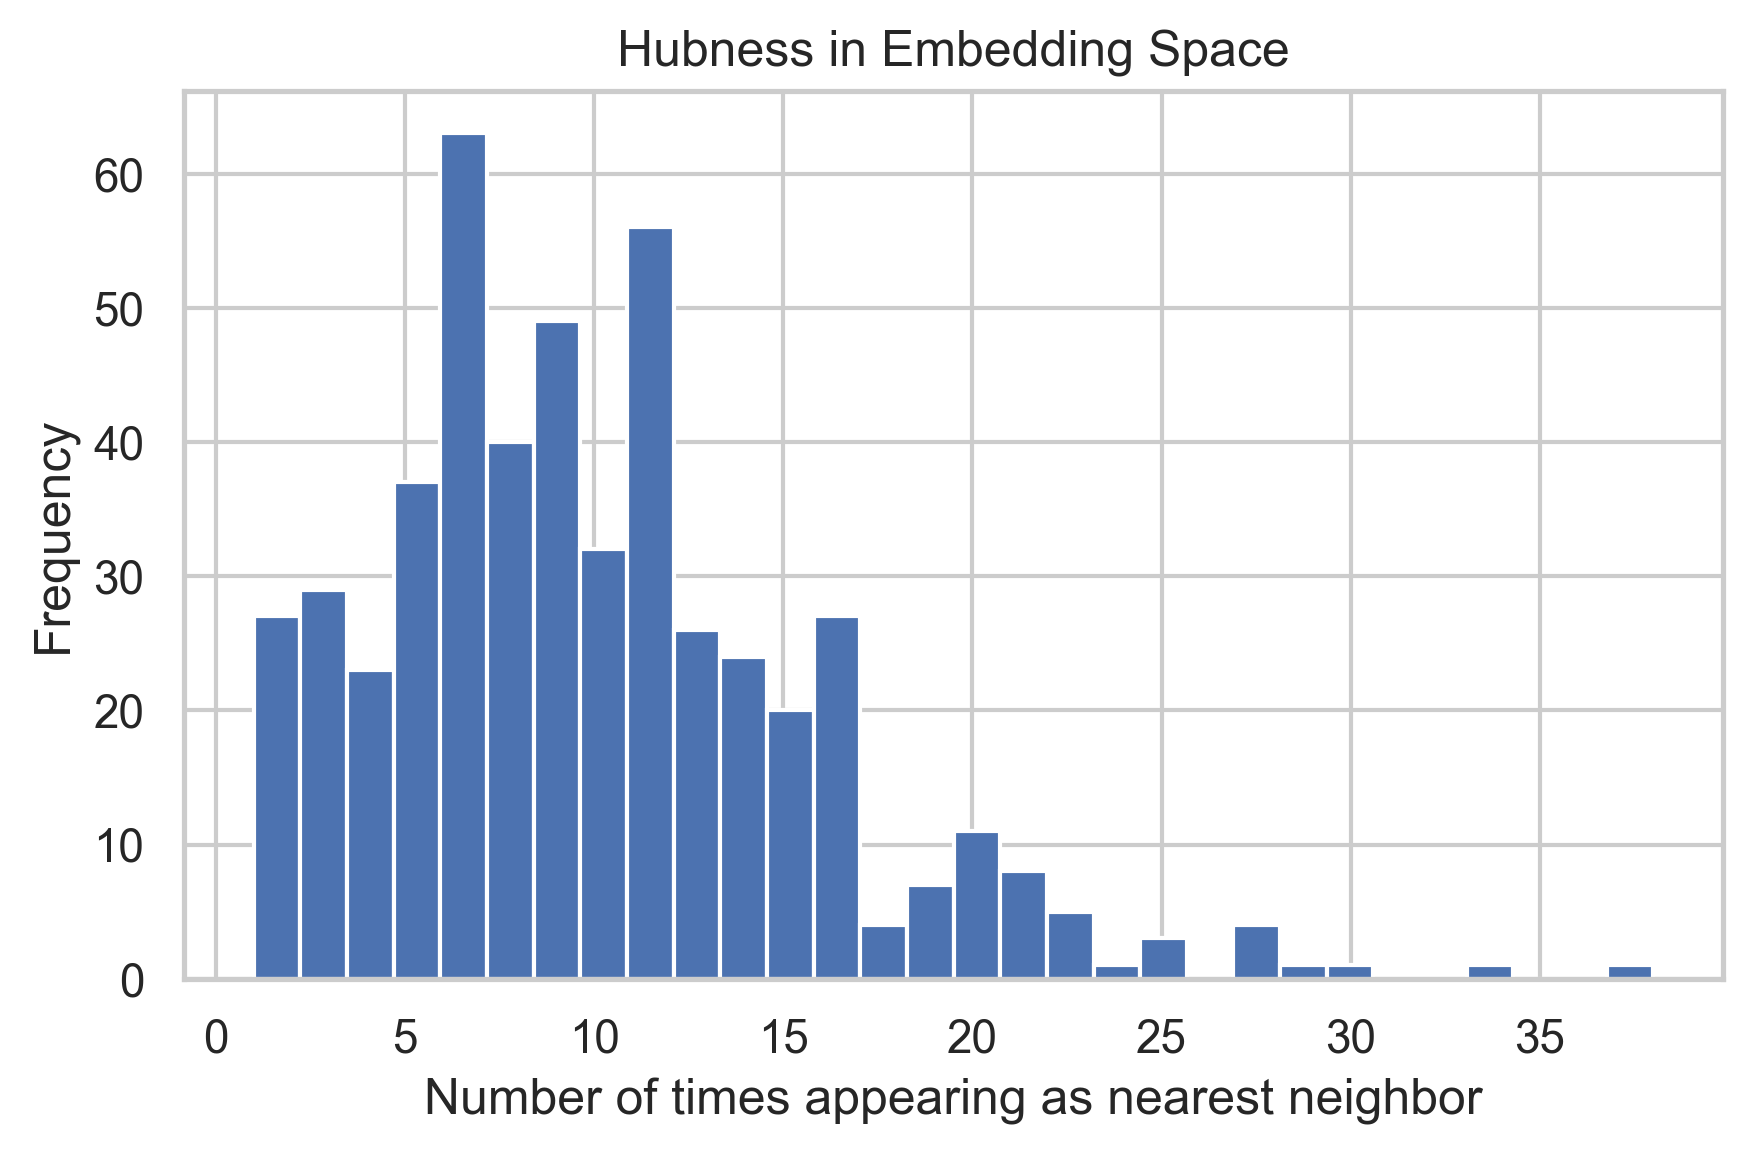
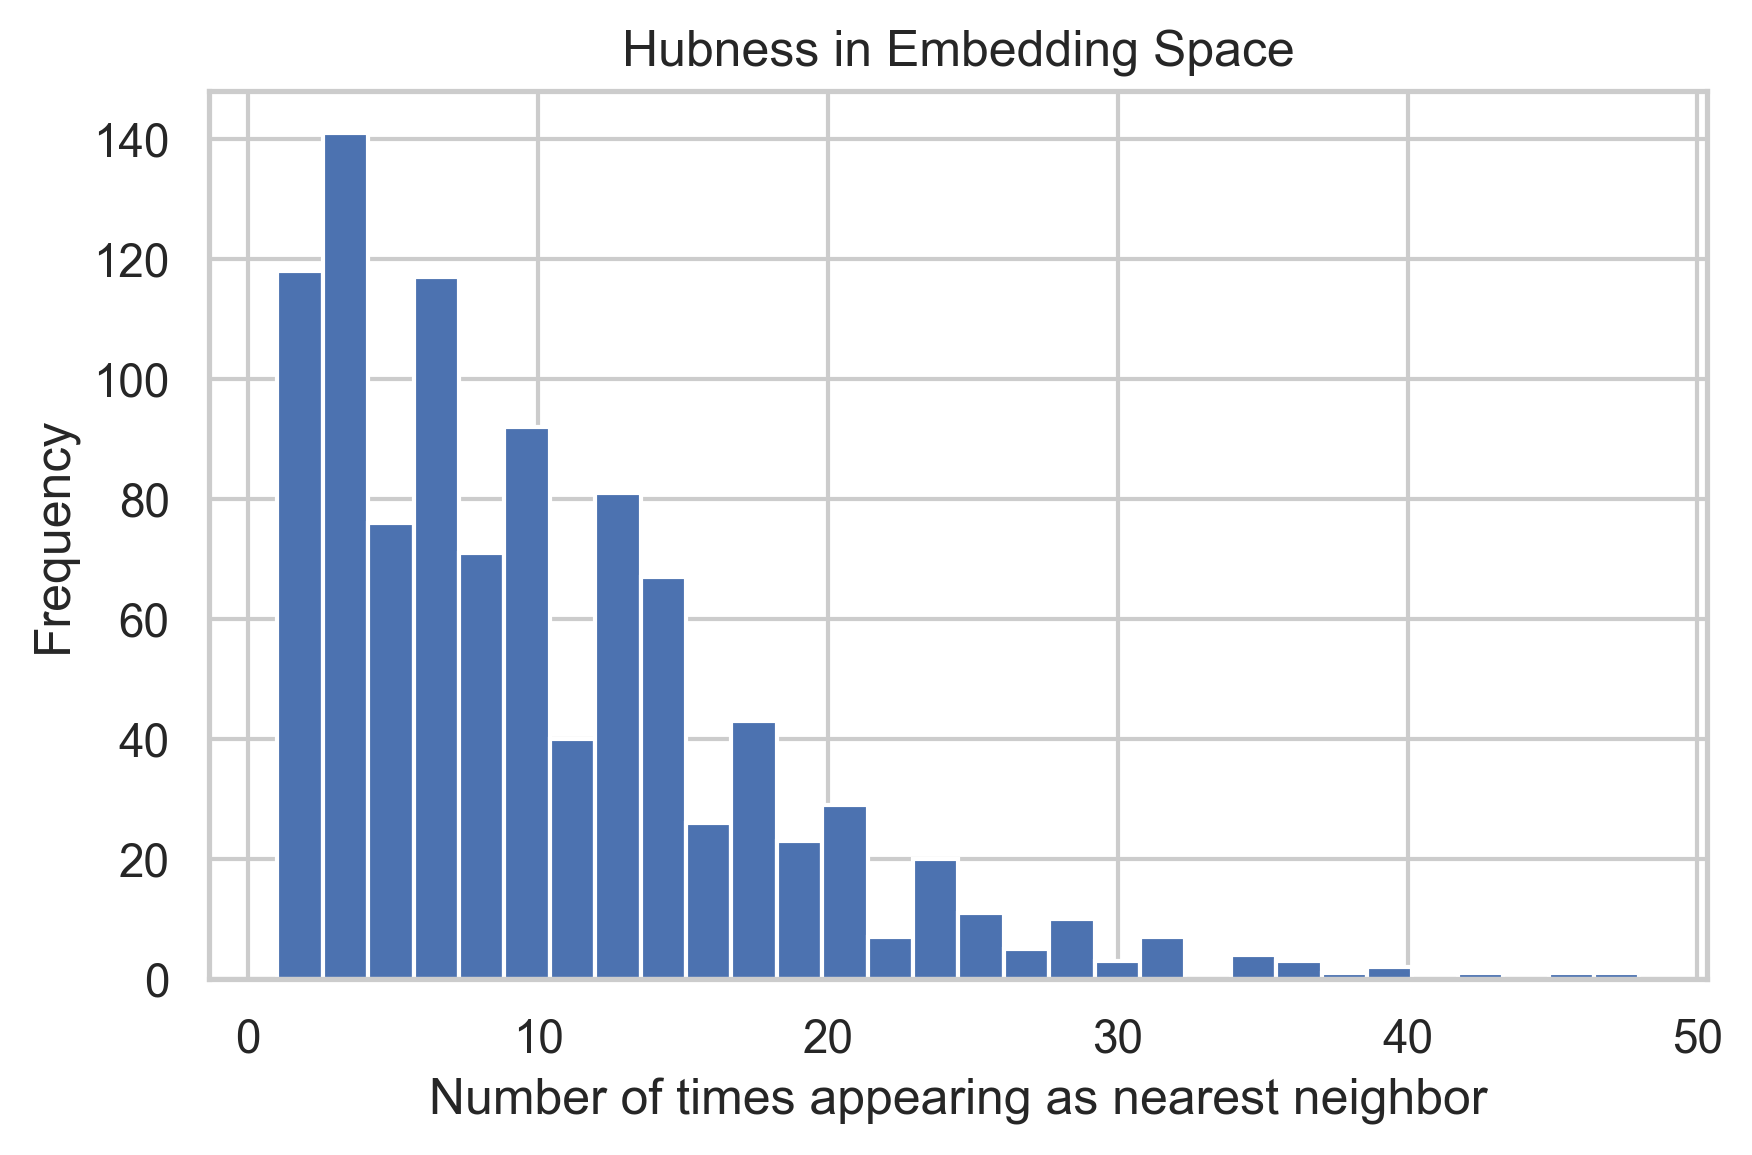
Updated Exps with AG News

diff --git a/experiments/4_hubness_analysis.py b/experiments/4_hubness_analysis.py
@@ -1,8 +1,10 @@
 from sklearn.neighbors import NearestNeighbors
 import numpy as np
 from src.text_utils import embed_sentences
+from datasets import load_dataset
 
-sentences = [f"This is sentence {i}" for i in range(500)]
+dataset = load_dataset("ag_news", split="train").shuffle(seed=42).select(range(1000))
+sentences = dataset["text"]
 
 emb = embed_sentences(sentences)
 
@@ -24,4 +26,4 @@ sorted_hubs = sorted(hub_count.items(), key=lambda x: x[1], reverse=True)
 print("Top hub sentences:\n")
 
 for idx, count in sorted_hubs[:10]:
-    print(idx, count)
+    print(f"Count: {count} | Sentence: {sentences[idx]}")

diff --git a/experiments/visual_hubness.py b/experiments/visual_hubness.py
@@ -3,10 +3,12 @@ import matplotlib.pyplot as plt
 from sklearn.neighbors import NearestNeighbors
 from src.text_utils import embed_sentences
 import seaborn as sns
+from datasets import load_dataset
 
 sns.set_theme(style="whitegrid")
 
-sentences = [f"This is example sentence {i}" for i in range(500)]
+dataset = load_dataset("ag_news", split="train").shuffle(seed=42).select(range(1000))
+sentences = dataset["text"]
 
 emb = embed_sentences(sentences)
 

diff --git a/experiments/visual_intrinsic_dimension.py b/experiments/visual_intrinsic_dimension.py
@@ -3,10 +3,12 @@ import matplotlib.pyplot as plt
 from sklearn.decomposition import PCA
 from src.text_utils import embed_sentences
 import seaborn as sns
+from datasets import load_dataset
 
 sns.set_theme(style="whitegrid")
 
-sentences = [f"This is sentence {i}" for i in range(1000)]
+dataset = load_dataset("ag_news", split="train").shuffle(seed=42).select(range(1000))
+sentences = dataset["text"]
 
 emb = embed_sentences(sentences)
 

diff --git a/experiments/6_intrinsic_dimension.py b/experiments/6_intrinsic_dimension.py
@@ -3,8 +3,10 @@ import matplotlib.pyplot as plt
 import numpy as np
 from src.text_utils import embed_sentences
 from src.utils import save_fig
+from datasets import load_dataset
 
-sentences = [f"This is example sentence {i}" for i in range(1000)]
+dataset = load_dataset("ag_news", split="train").shuffle(seed=42).select(range(1000))
+sentences = dataset["text"]
 
 emb = embed_sentences(sentences)
 

diff --git a/readme.md b/readme.md
@@ -134,7 +134,11 @@ This experiment:
 
 ## Result
 
-A small number of vectors appear extremely frequently.
+A small number of vectors appear extremely frequently. Here are the top "hub" sentences from the AG News dataset that show up as nearest neighbors most often:
+
+1. **(Count: 48)** *Russia Counts Cost of Bloody End to School Siege BESLAN, Russia (Reuters) - Russia began counting the cost on Saturday at the end of a siege of a school captured by Chechen gunmen which killed at least 200 people and cast fresh doubts on Moscow's policy in the turbulent region.*
+2. **(Count: 45)** *Time Warner #39;s AOL to reduce headcount by 700 MUMBAI: In a bid to reverse its declining fortunes through cost cutting measures Time Warner #39;s unit America Online which claims to be the world #39;s largest internet service provider will remove over 700 employees shortly.*
+3. **(Count: 43)** *Motorola Acquiring Wireless Networking Firm MeshNetworks Motorola Inc. is acquiring MeshNetworks Inc., developer of a technology that makes it easy to set up and expand wireless networks, in a deal expected to help the world's No. 2 cell phone maker win more government business.*
 
 ![Hubness Histogram](figures/hubness_histogram.png)
 
